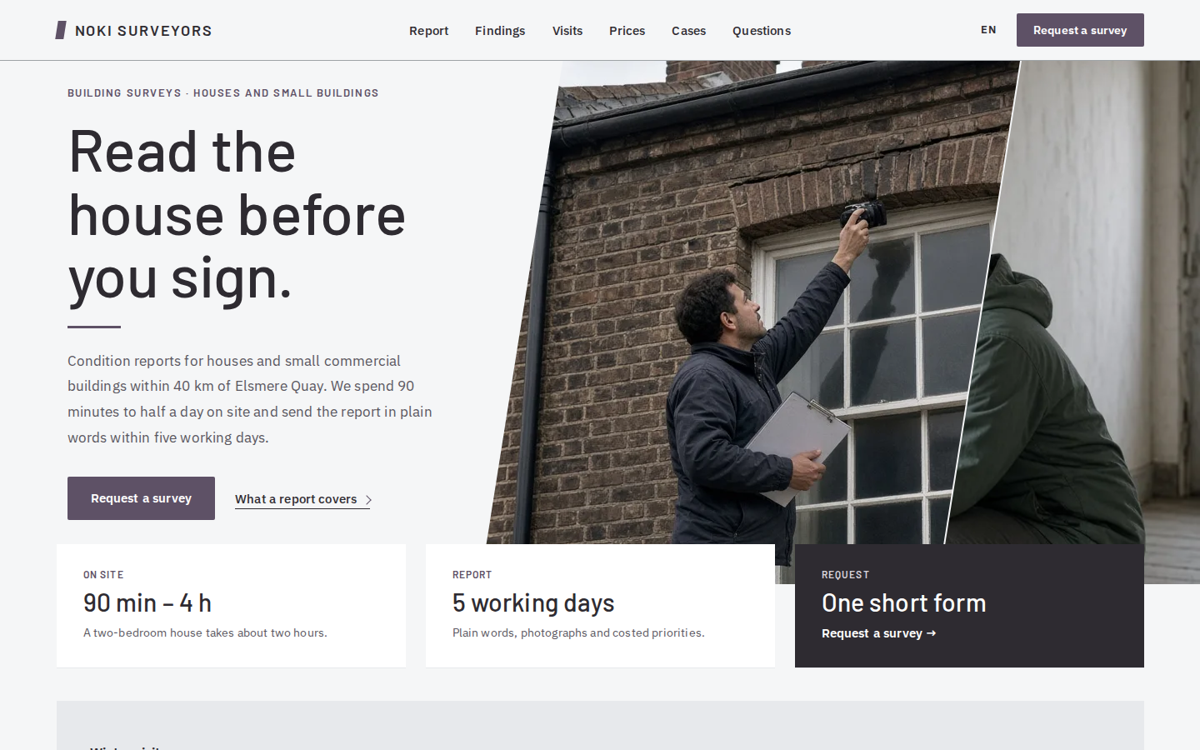
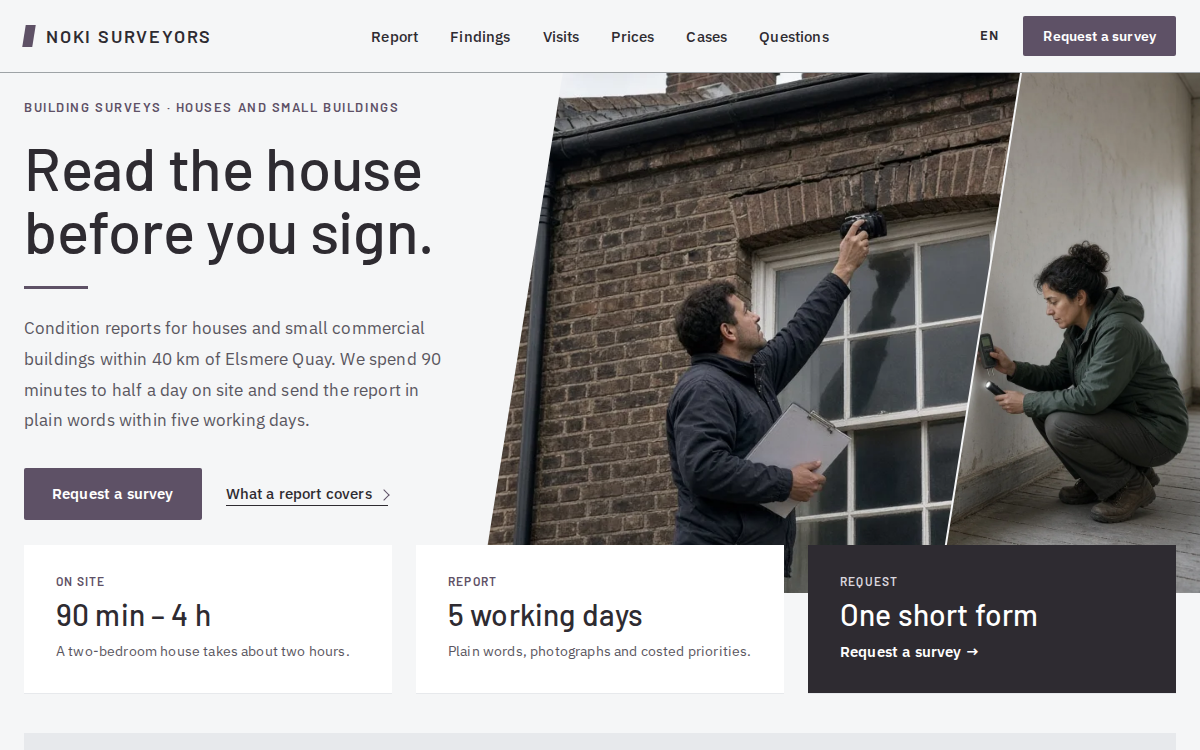
Noki Surveyors home (stage 2 fix): hero pane crop, report photo crop, field spacing, strip arrows, mobile strip, screenshot

diff --git a/themes/noki-surveyors/style.css b/themes/noki-surveyors/style.css
@@ -111,7 +111,8 @@ img { max-width: 100%; height: auto; }
 .nk-pane figure, .nk-fphoto figure, .nk-qcard__img figure, .nk-report__img figure, .nk-fcard__img figure, .nk-visit__photo figure { margin: 0; height: 100%; }
 .nk-pane img, .nk-fphoto img, .nk-qcard__img img, .nk-report__img img, .nk-fcard__img img, .nk-visit__photo img { width: 100%; height: 100%; object-fit: cover; display: block; }
 .nk-pane--a img { object-position: 42% 40%; }
-.nk-pane--b img { object-position: 50% 45%; }
+.nk-pane--b > .sp-parallax { left: 54%; }
+.nk-pane--b img { object-position: 0% 60%; }
 .nk-par-6 { --sp-par: 6%; } .nk-par-9 { --sp-par: 9%; } .nk-par-10 { --sp-par: 10%; } .nk-par-12 { --sp-par: 12%; }
 @media (prefers-reduced-motion: no-preference) {
 	html.sp-js:not(.sp-no-motion) .nk-pane--a figure { animation: nk-settle 1.6s var(--nk-ease) both; }
@@ -152,7 +153,7 @@ img { max-width: 100%; height: auto; }
 .nk-fphoto { position: absolute; }
 .nk-fphoto > .sp-parallax { height: 100%; }
 .nk-fphoto--1 { left: 0; top: 40px; width: 26.3%; height: 450px; }
-.nk-fphoto--2 { left: 32.6%; top: 0; width: 36%; height: 330px; }
+.nk-fphoto--2 { left: 32.6%; top: 40px; width: 36%; height: 330px; }
 .nk-fphoto--3 { right: 0; top: 150px; width: 12.6%; height: 513px; }
 .nk-field__text { position: absolute; left: 36.1%; top: 470px; width: 40%; }
 .nk-statement { font: 400 clamp(1.5rem, 2.5vw, 2.25rem)/1.4 var(--nk-display); letter-spacing: .01em; margin: 0 0 20px; }
@@ -208,6 +209,7 @@ img { max-width: 100%; height: auto; }
 /* report ledger */
 .nk-report { display: grid; grid-template-columns: 5fr 7fr; gap: 64px; align-items: start; }
 .nk-report__img { aspect-ratio: 4 / 5; overflow: hidden; }
+.nk-report__img img { transform: scale(1.2); transform-origin: 0 100%; }
 .nk-lrow { display: grid; grid-template-columns: 72px 1fr; align-items: baseline; padding: 20px 0; border-bottom: 1px solid var(--nk-rule); }
 .nk-lrow:first-child { padding-top: 0; }
 .nk-lrow__n { font: 500 2.5rem/1 var(--nk-display); color: var(--nk-accent); margin: 0; }
@@ -222,18 +224,19 @@ img { max-width: 100%; height: auto; }
 .nk-fcard { flex: none; width: 286px; position: relative; }
 .nk-fcard__img { height: 430px; border-radius: 4px; overflow: hidden; position: relative; }
 .nk-fcard:not(.nk-fcard--c) .nk-fcard__img::after { content: ""; position: absolute; inset: 0; background: rgba(245, 246, 247, .45); }
-.nk-fcard--c { width: 452px; }
+.nk-fcard--c { width: 452px; margin-inline: 32px; }
 .nk-fcard--c .nk-fcard__img { height: 560px; }
 .nk-fcard__t { font: 600 1rem/1.4 var(--nk-display); margin: 16px 0 0; }
 .nk-fcard--c .nk-fcard__t { font-size: 1.375rem; }
 .nk-fcard__m { font-size: 13px; color: var(--nk-soft); margin: 2px 0 0; }
 .nk-fcard__x { font-size: 15px; line-height: 1.7; margin: 8px 0 0; }
 .nk-arrow { position: absolute; top: 215px; z-index: 4; width: 56px; height: 56px; border-radius: 50%; border: 1px solid var(--nk-ink); background: #fff; color: var(--nk-ink); display: flex; align-items: center; justify-content: center; }
-.nk-arrow--prev { left: calc(50% - 566px); } .nk-arrow--next { left: calc(50% + 510px); }
+.nk-arrow--prev { left: calc(50% - 286px); } .nk-arrow--next { left: calc(50% + 230px); }
 .nk-arrow:hover { background: var(--nk-ink); color: #fff; }
 @media (max-width: 781px) {
 	.nk-strip { justify-content: flex-start; overflow-x: auto; scroll-snap-type: x mandatory; gap: 16px; padding-inline: 24px; align-items: flex-start; }
-	.nk-fcard, .nk-fcard--c { width: 78vw; scroll-snap-align: start; }
+	.nk-fcard, .nk-fcard--c { width: 78vw; margin-inline: 0; scroll-snap-align: center; }
+	.nk-strip { scroll-padding-inline: 24px; }
 	.nk-fcard__img, .nk-fcard--c .nk-fcard__img { height: 360px; }
 	.nk-fcard:not(.nk-fcard--c) .nk-fcard__img::after { display: none; }
 	.nk-fcard--c .nk-fcard__t { font-size: 1rem; }
